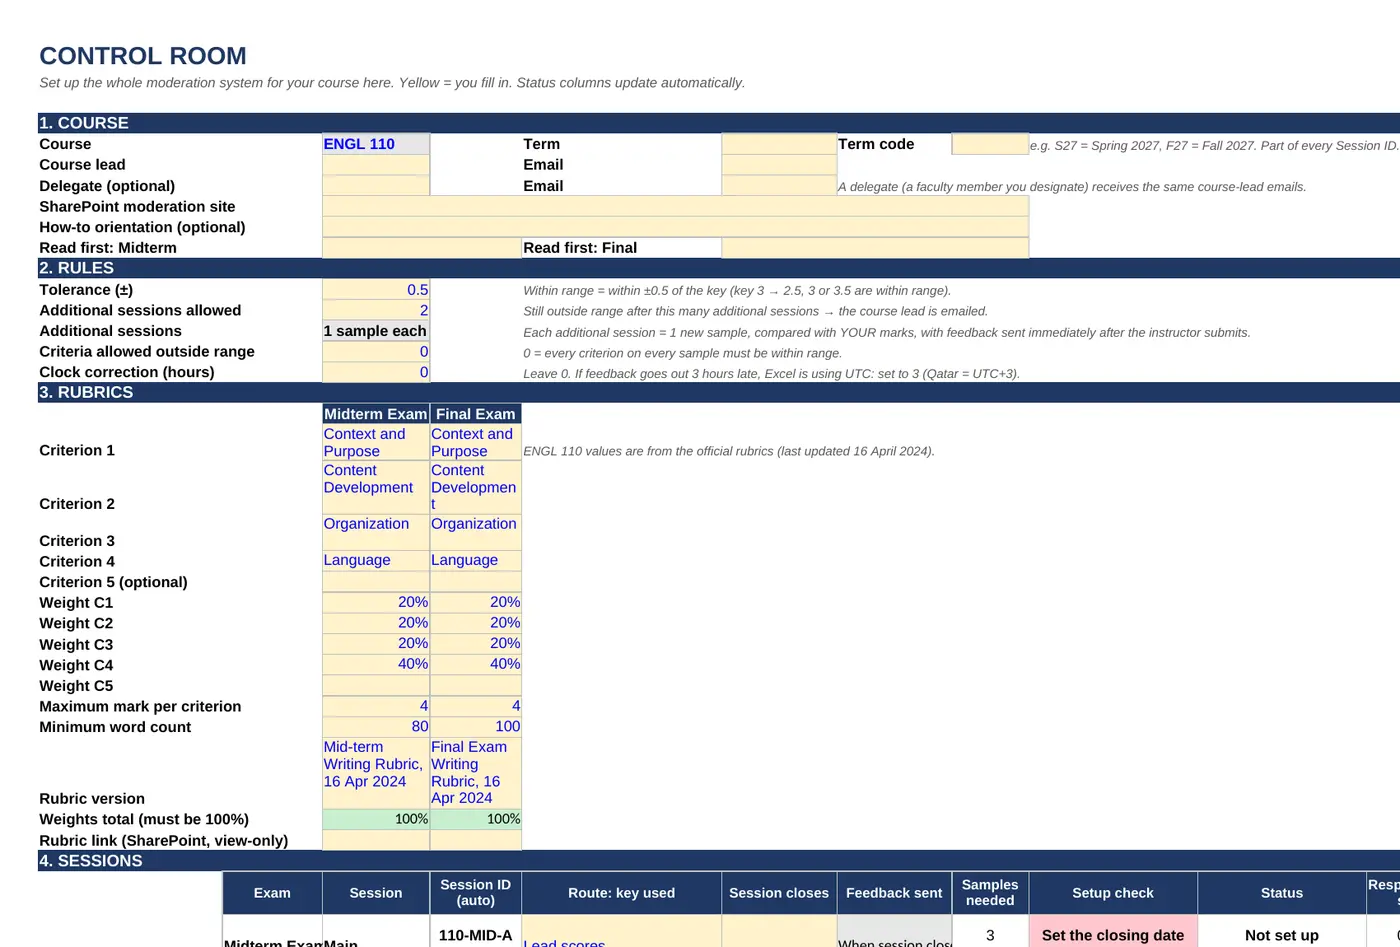
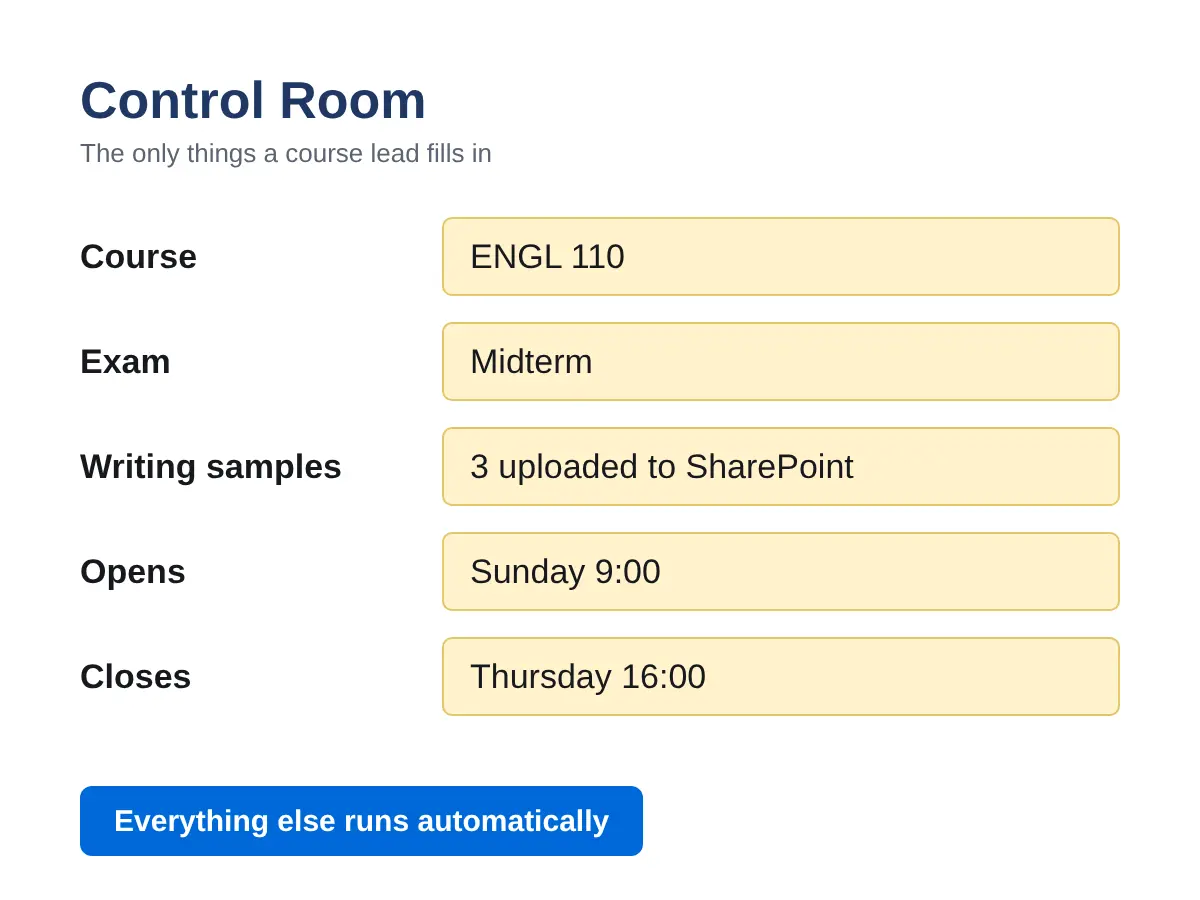
Moderation system: simplified, readable Control Room image
Claude-Session: https://claude.ai/code/session_01BaT6a6VR8wXUtNSRAbm432

diff --git a/site/work/moderation-hub/index.html b/site/work/moderation-hub/index.html
@@ -10,7 +10,7 @@
 <link rel="preconnect" href="https://fonts.gstatic.com" crossorigin>
 <link rel="stylesheet" href="https://fonts.googleapis.com/css2?family=Jost:wght@400;500;600;700&amp;family=Noto+Naskh+Arabic:wght@400;600&amp;display=swap">
 <link rel="stylesheet" href="/css/tokens.css?v=0db3604d">
-<link rel="stylesheet" href="/css/site.css?v=0e3d4dac">
+<link rel="stylesheet" href="/css/site.css?v=f9f2fcbc">
 </head>
 <body>
 <a class="skip-link" href="#main">Skip to content</a>
@@ -38,7 +38,7 @@
   </div>
   </div>
   <div class="container">
-    <div class="cs-shots"><a class="shot" href="/media/moderation/control-room.webp" target="_blank" rel="noopener"><img src="/media/moderation/control-room.webp" alt="The Control Room workbook, where the course lead sets the course, rules, rubrics and sessions. Invented sample data."><span>The Control Room: where the course lead sets up each session</span></a><a class="shot" href="/media/moderation/scoring-form.webp" target="_blank" rel="noopener"><img src="/media/moderation/scoring-form.webp" alt="The Microsoft Form lecturers use to score each writing sample against the rubric. Invented sample data."><span>The scoring form lecturers fill in</span></a><a class="shot" href="/media/moderation/feedback-email.webp" target="_blank" rel="noopener"><img src="/media/moderation/feedback-email.webp" alt="A feedback email showing a lecturer's marks directly above the course lead's marks, with marks more than 0.5 apart highlighted. Invented sample data."><span>The feedback email each lecturer receives</span></a></div>
+    <div class="cs-shots"><a class="shot" href="/media/moderation/control-room.webp" target="_blank" rel="noopener"><img src="/media/moderation/control-room.webp" alt="A simplified view of the Control Room: the course lead fills in the course, exam, samples and opening and closing dates. Everything else runs automatically."><span>The Control Room: where the course lead sets up each session</span></a><a class="shot" href="/media/moderation/scoring-form.webp" target="_blank" rel="noopener"><img src="/media/moderation/scoring-form.webp" alt="The Microsoft Form lecturers use to score each writing sample against the rubric. Invented sample data."><span>The scoring form lecturers fill in</span></a><a class="shot" href="/media/moderation/feedback-email.webp" target="_blank" rel="noopener"><img src="/media/moderation/feedback-email.webp" alt="A feedback email showing a lecturer's marks directly above the course lead's marks, with marks more than 0.5 apart highlighted. Invented sample data."><span>The feedback email each lecturer receives</span></a></div>
     <dl class="facts facts-3">
       <div><dt class="label">My role</dt><dd>Instructional designer and developer: needs analysis, design, build, testing and documentation.</dd></div>
       <div><dt class="label">Competencies</dt><dd><p class="comp-sub">Core</p><ul class="comp-list"><li>Grading, norming and exam development</li><li>Assessment design and learning outcomes</li><li>Formative assessment and feedback</li><li>Accreditation and program improvement</li><li>Faculty mentoring and stakeholder engagement</li></ul><p class="comp-sub">AI</p><ul class="comp-list"><li>Quality assurance and workflow design</li><li>AI-assisted design and build with Claude, with documented human review</li></ul></dd></div>

diff --git a/site/css/site.css b/site/css/site.css
@@ -1056,6 +1056,6 @@ a.shot.cs-banner { margin: 0 0 14px; }
 
 /* Three screenshots in place of the hero art */
 .cs-shots { display: grid; grid-template-columns: repeat(3, minmax(0, 1fr)); gap: 16px; margin: 40px 0 0; }
-.cs-shots .shot img { aspect-ratio: 4 / 3; object-fit: cover; object-position: top left; background: #fff; }
+.cs-shots .shot img { aspect-ratio: 4 / 3; object-fit: cover; object-position: top center; background: #fff; }
 .cs-shots + .facts { margin-top: 24px; }
 @media (max-width: 760px) { .cs-shots { grid-template-columns: 1fr; } }

diff --git a/site/404.html b/site/404.html
@@ -10,7 +10,7 @@
 <link rel="preconnect" href="https://fonts.gstatic.com" crossorigin>
 <link rel="stylesheet" href="https://fonts.googleapis.com/css2?family=Jost:wght@400;500;600;700&amp;family=Noto+Naskh+Arabic:wght@400;600&amp;display=swap">
 <link rel="stylesheet" href="/css/tokens.css?v=0db3604d">
-<link rel="stylesheet" href="/css/site.css?v=0e3d4dac">
+<link rel="stylesheet" href="/css/site.css?v=f9f2fcbc">
 </head>
 <body>
 <a class="skip-link" href="#main">Skip to content</a>

diff --git a/site/ai-projects/index.html b/site/ai-projects/index.html
@@ -10,7 +10,7 @@
 <link rel="preconnect" href="https://fonts.gstatic.com" crossorigin>
 <link rel="stylesheet" href="https://fonts.googleapis.com/css2?family=Jost:wght@400;500;600;700&amp;family=Noto+Naskh+Arabic:wght@400;600&amp;display=swap">
 <link rel="stylesheet" href="/css/tokens.css?v=0db3604d">
-<link rel="stylesheet" href="/css/site.css?v=0e3d4dac">
+<link rel="stylesheet" href="/css/site.css?v=f9f2fcbc">
 </head>
 <body>
 <a class="skip-link" href="#main">Skip to content</a>

diff --git a/site/contact/index.html b/site/contact/index.html
@@ -10,7 +10,7 @@
 <link rel="preconnect" href="https://fonts.gstatic.com" crossorigin>
 <link rel="stylesheet" href="https://fonts.googleapis.com/css2?family=Jost:wght@400;500;600;700&amp;family=Noto+Naskh+Arabic:wght@400;600&amp;display=swap">
 <link rel="stylesheet" href="/css/tokens.css?v=0db3604d">
-<link rel="stylesheet" href="/css/site.css?v=0e3d4dac">
+<link rel="stylesheet" href="/css/site.css?v=f9f2fcbc">
 </head>
 <body>
 <a class="skip-link" href="#main">Skip to content</a>

diff --git a/site/cultural-projects/index.html b/site/cultural-projects/index.html
@@ -10,7 +10,7 @@
 <link rel="preconnect" href="https://fonts.gstatic.com" crossorigin>
 <link rel="stylesheet" href="https://fonts.googleapis.com/css2?family=Jost:wght@400;500;600;700&amp;family=Noto+Naskh+Arabic:wght@400;600&amp;display=swap">
 <link rel="stylesheet" href="/css/tokens.css?v=0db3604d">
-<link rel="stylesheet" href="/css/site.css?v=0e3d4dac">
+<link rel="stylesheet" href="/css/site.css?v=f9f2fcbc">
 </head>
 <body>
 <a class="skip-link" href="#main">Skip to content</a>

diff --git a/site/index.html b/site/index.html
@@ -10,7 +10,7 @@
 <link rel="preconnect" href="https://fonts.gstatic.com" crossorigin>
 <link rel="stylesheet" href="https://fonts.googleapis.com/css2?family=Jost:wght@400;500;600;700&amp;family=Noto+Naskh+Arabic:wght@400;600&amp;display=swap">
 <link rel="stylesheet" href="/css/tokens.css?v=0db3604d">
-<link rel="stylesheet" href="/css/site.css?v=0e3d4dac">
+<link rel="stylesheet" href="/css/site.css?v=f9f2fcbc">
 </head>
 <body>
 <a class="skip-link" href="#main">Skip to content</a>

diff --git a/site/instructional-design/index.html b/site/instructional-design/index.html
@@ -10,7 +10,7 @@
 <link rel="preconnect" href="https://fonts.gstatic.com" crossorigin>
 <link rel="stylesheet" href="https://fonts.googleapis.com/css2?family=Jost:wght@400;500;600;700&amp;family=Noto+Naskh+Arabic:wght@400;600&amp;display=swap">
 <link rel="stylesheet" href="/css/tokens.css?v=0db3604d">
-<link rel="stylesheet" href="/css/site.css?v=0e3d4dac">
+<link rel="stylesheet" href="/css/site.css?v=f9f2fcbc">
 </head>
 <body>
 <a class="skip-link" href="#main">Skip to content</a>

diff --git a/site/studio/index.html b/site/studio/index.html
@@ -10,7 +10,7 @@
 <link rel="preconnect" href="https://fonts.gstatic.com" crossorigin>
 <link rel="stylesheet" href="https://fonts.googleapis.com/css2?family=Jost:wght@400;500;600;700&amp;family=Noto+Naskh+Arabic:wght@400;600&amp;display=swap">
 <link rel="stylesheet" href="/css/tokens.css?v=0db3604d">
-<link rel="stylesheet" href="/css/site.css?v=0e3d4dac">
+<link rel="stylesheet" href="/css/site.css?v=f9f2fcbc">
 </head>
 <body>
 <a class="skip-link" href="#main">Skip to content</a>

diff --git a/site/teaching/index.html b/site/teaching/index.html
@@ -10,7 +10,7 @@
 <link rel="preconnect" href="https://fonts.gstatic.com" crossorigin>
 <link rel="stylesheet" href="https://fonts.googleapis.com/css2?family=Jost:wght@400;500;600;700&amp;family=Noto+Naskh+Arabic:wght@400;600&amp;display=swap">
 <link rel="stylesheet" href="/css/tokens.css?v=0db3604d">
-<link rel="stylesheet" href="/css/site.css?v=0e3d4dac">
+<link rel="stylesheet" href="/css/site.css?v=f9f2fcbc">
 </head>
 <body>
 <a class="skip-link" href="#main">Skip to content</a>

diff --git a/site/work/english-21st-century/index.html b/site/work/english-21st-century/index.html
@@ -10,7 +10,7 @@
 <link rel="preconnect" href="https://fonts.gstatic.com" crossorigin>
 <link rel="stylesheet" href="https://fonts.googleapis.com/css2?family=Jost:wght@400;500;600;700&amp;family=Noto+Naskh+Arabic:wght@400;600&amp;display=swap">
 <link rel="stylesheet" href="/css/tokens.css?v=0db3604d">
-<link rel="stylesheet" href="/css/site.css?v=0e3d4dac">
+<link rel="stylesheet" href="/css/site.css?v=f9f2fcbc">
 </head>
 <body>
 <a class="skip-link" href="#main">Skip to content</a>

diff --git a/site/work/falcon-folktale/index.html b/site/work/falcon-folktale/index.html
@@ -10,7 +10,7 @@
 <link rel="preconnect" href="https://fonts.gstatic.com" crossorigin>
 <link rel="stylesheet" href="https://fonts.googleapis.com/css2?family=Jost:wght@400;500;600;700&amp;family=Noto+Naskh+Arabic:wght@400;600&amp;display=swap">
 <link rel="stylesheet" href="/css/tokens.css?v=0db3604d">
-<link rel="stylesheet" href="/css/site.css?v=0e3d4dac">
+<link rel="stylesheet" href="/css/site.css?v=f9f2fcbc">
 </head>
 <body>
 <a class="skip-link" href="#main">Skip to content</a>
